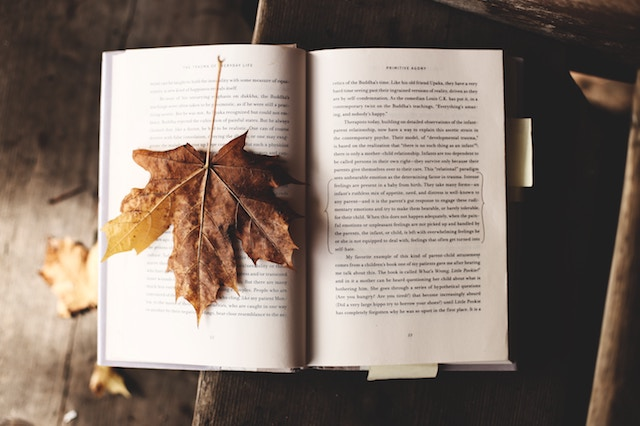
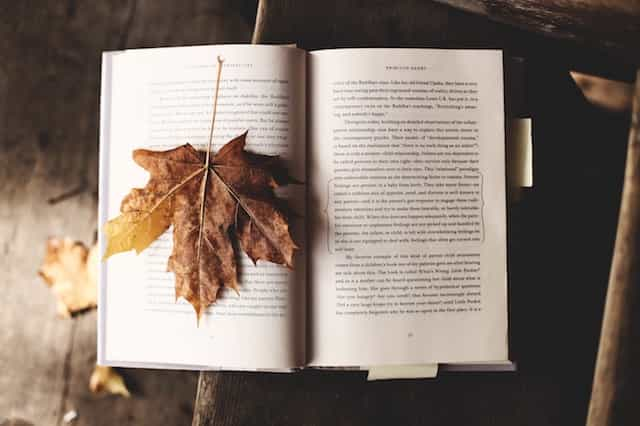
Adds jpg web compression.

diff --git a/webp.js b/webp.js
@@ -1,8 +1,9 @@
-const imagemin = require("imagemin"),    // The imagemin module.
-  webp = require("imagemin-webp"),   // imagemin's WebP plugin.
-  outputFolder = "./static/uploads",            // Output folder
-  PNGImages = "./unoptimized-images/*.png",         // PNG images
-  JPEGImages = "./unoptimized-images/*.jpg";        // JPEG images
+const imagemin = require("imagemin"), // The imagemin module.
+  imageminJpegRecompress = require('imagemin-jpeg-recompress'),
+  webp = require("imagemin-webp"), // imagemin's WebP plugin.
+  outputFolder = "./static/uploads", // Output folder
+  PNGImages = "./unoptimized-images/*.png", // PNG images
+  JPEGImages = "./unoptimized-images/*.jpg"; // JPEG images
 
 imagemin([PNGImages], outputFolder, {
   plugins: [webp({
@@ -15,3 +16,18 @@ imagemin([JPEGImages], outputFolder, {
     quality: 80 // Quality setting from 0 to 100
   })]
 });
+
+imagemin([JPEGImages], outputFolder, {
+  plugins: [
+    imageminJpegRecompress({
+      accurate: true,
+      quality: 'high',
+      min: 50,
+      max: 90,
+      loops: 6,
+      progressive: true,
+      strip: true,
+      target: 0.9
+    })
+  ]
+})

diff --git a/README.md b/README.md
@@ -230,6 +230,15 @@ I've setup a couple handy aliases in webpack so that instead of having to write 
 1.  `config` - `site.config.js`
 2.  `theme` - The theme folder
 
+### Image Compression
+I've added a script to reduce your image sizes. Drag the files you wish to reduce into the unoptimized-images folder. Run:
+
+```bash
+npm run webp
+```
+
+The compressed jpegs and webp images will be output to the `static/uploads/` folder with the same filenames. You can change this setting and compression levels in the `webp.js` file.
+
 ## License
 
 Copyright (c) Jon Paul Miles 2018
